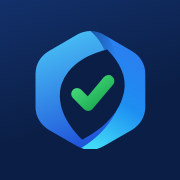
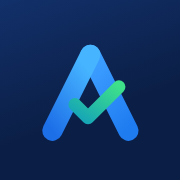
As-hal | أسهل: البوابة والأيقونات
- شاشة التحميل بلوجو حرف A، وعنوان التاب واسم التطبيق على الموبايل
- favicon و apple-touch-icon و logo.png الجديدة، ورقم النسخة ?v=ashal عشان المتصفح يجيبها

Claude-Session: https://claude.ai/code/session_017SmJQ2hLpvfXwQFP45DQRd

Changed region(s): [[0.1944, 0.1667, 0.8333, 0.8333]]

diff --git a/beta/index.html b/beta/index.html
@@ -7,17 +7,17 @@
 <meta name="mobile-web-app-capable" content="yes">
 <meta name="apple-mobile-web-app-capable" content="yes">
 <meta name="apple-mobile-web-app-status-bar-style" content="black">
-<meta name="apple-mobile-web-app-title" content="OPSORA">
+<meta name="apple-mobile-web-app-title" content="As-hal | أسهل">
 <meta name="robots" content="noindex">
 <meta name="referrer" content="no-referrer">
-<title>OPSORA — نسخة تجريبية</title>
+<title>As-hal — نسخة تجريبية</title>
 
-<link rel="icon" href="../favicon.ico?v=opsora" sizes="any">
-<link rel="icon" type="image/png" sizes="32x32" href="../favicon-32.png?v=opsora">
-<link rel="icon" type="image/png" sizes="16x16" href="../favicon-16.png?v=opsora">
-<link rel="icon" type="image/png" sizes="192x192" href="../favicon-192.png?v=opsora">
-<link rel="icon" type="image/png" sizes="512x512" href="../favicon-512.png?v=opsora">
-<link rel="apple-touch-icon" href="../apple-touch-icon.png?v=opsora">
+<link rel="icon" href="../favicon.ico?v=ashal" sizes="any">
+<link rel="icon" type="image/png" sizes="32x32" href="../favicon-32.png?v=ashal">
+<link rel="icon" type="image/png" sizes="16x16" href="../favicon-16.png?v=ashal">
+<link rel="icon" type="image/png" sizes="192x192" href="../favicon-192.png?v=ashal">
+<link rel="icon" type="image/png" sizes="512x512" href="../favicon-512.png?v=ashal">
+<link rel="apple-touch-icon" href="../apple-touch-icon.png?v=ashal">
 <!-- النسخة التجريبية مالهاش manifest عشان ماتتثبتش مكان الأصلية -->
 
 <style>
@@ -83,9 +83,9 @@
 <body>
 
 <div id="splash">
-  <div class="bl" role="status" aria-label="OPSORA">
-    <div class="bl-m"><span class="bl-o"><svg width="96" height="96" viewBox="0 0 100 100" aria-hidden="true" style="display:block"><defs><linearGradient id="oa" x1="0.1" y1="0" x2="0.5" y2="1"><stop offset="0" stop-color="#4CC9F7"/><stop offset="1" stop-color="#1D4ED8"/></linearGradient><linearGradient id="ob" x1="0.7" y1="0" x2="0.3" y2="1"><stop offset="0" stop-color="#2F7BEF"/><stop offset="0.55" stop-color="#1D8EF2"/><stop offset="1" stop-color="#40DAF6"/></linearGradient><linearGradient id="os" x1="0" y1="0" x2="1" y2="0"><stop offset="0" stop-color="#0B1F46" stop-opacity=".45"/><stop offset="1" stop-color="#0B1F46" stop-opacity="0"/></linearGradient><linearGradient id="ok" x1="0" y1="0" x2="1" y2="1"><stop offset="0" stop-color="#4ADE80"/><stop offset="1" stop-color="#16A34A"/></linearGradient><mask id="om"><polygon points="50,22 74.2,36 74.2,64 50,78 25.8,64 25.8,36" fill="#fff" stroke="#fff" stroke-width="44" stroke-linejoin="round"/></mask></defs><g mask="url(#om)"><rect width="100" height="100" fill="url(#oa)"/><path d="M63 19 C 60 11 56 5 50 0 L 100 0 L 100 100 L 40 100 C 60 88 75 70 77 50 C 78 39 72 28 63 19 Z" fill="url(#ob)"/><path d="M63 19 C 60 11 56 5 50 0 L 60 0 C 66 6 70 13 72 22 Z" fill="url(#os)"/></g><g transform="translate(52 53) scale(1.1) translate(-52 -53)"><path d="M44 88 C 30 75 24 59 28 46 C 33 31 47 23 63 19 C 73 29 78 40 76 51 C 73 67 61 79 44 88 Z" fill="#0B1F46"/><path d="M40 53 L48.5 61.5 L64 43" fill="none" stroke="url(#ok)" stroke-width="9" stroke-linecap="round" stroke-linejoin="round"/></g></svg></span></div>
-    <div class="bl-w"><span style="opacity:1;font-weight:700">OPSORA</span></div>
+  <div class="bl" role="status" aria-label="As-hal | أسهل">
+    <div class="bl-m"><span class="bl-o"><svg width="96" height="96" viewBox="0 0 100 100" aria-hidden="true" style="display:block"><defs><linearGradient id="aa" x1="0" y1="1" x2="0.6" y2="0"><stop offset="0" stop-color="#1D6FE8"/><stop offset="1" stop-color="#46B4FF"/></linearGradient><linearGradient id="ab" x1="0.5" y1="0" x2="1" y2="1"><stop offset="0" stop-color="#3B9CFF"/><stop offset="1" stop-color="#1E7BF0"/></linearGradient><linearGradient id="ac" x1="0" y1="1" x2="1" y2="0"><stop offset="0" stop-color="#14A3B8"/><stop offset="1" stop-color="#3EE08A"/></linearGradient></defs><path d="M50 20 L82 84" fill="none" stroke="url(#ab)" stroke-width="17" stroke-linecap="round"/><path d="M18 84 L50 20" fill="none" stroke="url(#aa)" stroke-width="17" stroke-linecap="round"/><path d="M37 62 L48 73 L74 47" fill="none" stroke="url(#ac)" stroke-width="11" stroke-linecap="round" stroke-linejoin="round"/></svg></span></div>
+    <div class="bl-w"><span style="opacity:1;font-weight:700">As-hal</span></div>
     <div class="bl-l"><i></i></div>
   </div>
   <div class="sub" id="ssub"></div>
@@ -93,7 +93,7 @@
 </div>
 
 <iframe id="frame"
-        title="OPSORA"
+        title="As-hal | أسهل"
         allow="geolocation *; clipboard-write *; fullscreen *"
         allowfullscreen
         referrerpolicy="no-referrer"></iframe>
@@ -334,7 +334,7 @@ function bioMake(empId, name){
   if (BIO.busy) return; BIO.busy = true; bioHide();
   var enc = new TextEncoder();
   navigator.credentials.create({publicKey:{
-    challenge: rnd(32), rp:{name:'OPSORA'},
+    challenge: rnd(32), rp:{name:'As-hal'},
     user:{id: enc.encode(String(empId)).slice(0, 64), name: String(name || empId), displayName: String(name || empId)},
     pubKeyCredParams:[{type:'public-key', alg:-7}, {type:'public-key', alg:-257}],
     authenticatorSelection:{authenticatorAttachment:'platform', userVerification:'required', residentKey:'discouraged'},

diff --git a/index.html b/index.html
@@ -7,17 +7,17 @@
 <meta name="mobile-web-app-capable" content="yes">
 <meta name="apple-mobile-web-app-capable" content="yes">
 <meta name="apple-mobile-web-app-status-bar-style" content="black">
-<meta name="apple-mobile-web-app-title" content="OPSORA">
+<meta name="apple-mobile-web-app-title" content="As-hal | أسهل">
 <meta name="robots" content="noindex">
 <meta name="referrer" content="no-referrer">
-<title>OPSORA</title>
+<title>As-hal | أسهل</title>
 
-<link rel="icon" href="favicon.ico?v=opsora" sizes="any">
-<link rel="icon" type="image/png" sizes="32x32" href="favicon-32.png?v=opsora">
-<link rel="icon" type="image/png" sizes="16x16" href="favicon-16.png?v=opsora">
-<link rel="icon" type="image/png" sizes="192x192" href="favicon-192.png?v=opsora">
-<link rel="icon" type="image/png" sizes="512x512" href="favicon-512.png?v=opsora">
-<link rel="apple-touch-icon" href="apple-touch-icon.png?v=opsora">
+<link rel="icon" href="favicon.ico?v=ashal" sizes="any">
+<link rel="icon" type="image/png" sizes="32x32" href="favicon-32.png?v=ashal">
+<link rel="icon" type="image/png" sizes="16x16" href="favicon-16.png?v=ashal">
+<link rel="icon" type="image/png" sizes="192x192" href="favicon-192.png?v=ashal">
+<link rel="icon" type="image/png" sizes="512x512" href="favicon-512.png?v=ashal">
+<link rel="apple-touch-icon" href="apple-touch-icon.png?v=ashal">
 <link rel="manifest" href="manifest.json">
 
 <style>
@@ -83,9 +83,9 @@
 <body>
 
 <div id="splash">
-  <div class="bl" role="status" aria-label="OPSORA">
-    <div class="bl-m"><span class="bl-o"><svg width="96" height="96" viewBox="0 0 100 100" aria-hidden="true" style="display:block"><defs><linearGradient id="oa" x1="0.1" y1="0" x2="0.5" y2="1"><stop offset="0" stop-color="#4CC9F7"/><stop offset="1" stop-color="#1D4ED8"/></linearGradient><linearGradient id="ob" x1="0.7" y1="0" x2="0.3" y2="1"><stop offset="0" stop-color="#2F7BEF"/><stop offset="0.55" stop-color="#1D8EF2"/><stop offset="1" stop-color="#40DAF6"/></linearGradient><linearGradient id="os" x1="0" y1="0" x2="1" y2="0"><stop offset="0" stop-color="#0B1F46" stop-opacity=".45"/><stop offset="1" stop-color="#0B1F46" stop-opacity="0"/></linearGradient><linearGradient id="ok" x1="0" y1="0" x2="1" y2="1"><stop offset="0" stop-color="#4ADE80"/><stop offset="1" stop-color="#16A34A"/></linearGradient><mask id="om"><polygon points="50,22 74.2,36 74.2,64 50,78 25.8,64 25.8,36" fill="#fff" stroke="#fff" stroke-width="44" stroke-linejoin="round"/></mask></defs><g mask="url(#om)"><rect width="100" height="100" fill="url(#oa)"/><path d="M63 19 C 60 11 56 5 50 0 L 100 0 L 100 100 L 40 100 C 60 88 75 70 77 50 C 78 39 72 28 63 19 Z" fill="url(#ob)"/><path d="M63 19 C 60 11 56 5 50 0 L 60 0 C 66 6 70 13 72 22 Z" fill="url(#os)"/></g><g transform="translate(52 53) scale(1.1) translate(-52 -53)"><path d="M44 88 C 30 75 24 59 28 46 C 33 31 47 23 63 19 C 73 29 78 40 76 51 C 73 67 61 79 44 88 Z" fill="#0B1F46"/><path d="M40 53 L48.5 61.5 L64 43" fill="none" stroke="url(#ok)" stroke-width="9" stroke-linecap="round" stroke-linejoin="round"/></g></svg></span></div>
-    <div class="bl-w"><span style="opacity:1;font-weight:700">OPSORA</span></div>
+  <div class="bl" role="status" aria-label="As-hal | أسهل">
+    <div class="bl-m"><span class="bl-o"><svg width="96" height="96" viewBox="0 0 100 100" aria-hidden="true" style="display:block"><defs><linearGradient id="aa" x1="0" y1="1" x2="0.6" y2="0"><stop offset="0" stop-color="#1D6FE8"/><stop offset="1" stop-color="#46B4FF"/></linearGradient><linearGradient id="ab" x1="0.5" y1="0" x2="1" y2="1"><stop offset="0" stop-color="#3B9CFF"/><stop offset="1" stop-color="#1E7BF0"/></linearGradient><linearGradient id="ac" x1="0" y1="1" x2="1" y2="0"><stop offset="0" stop-color="#14A3B8"/><stop offset="1" stop-color="#3EE08A"/></linearGradient></defs><path d="M50 20 L82 84" fill="none" stroke="url(#ab)" stroke-width="17" stroke-linecap="round"/><path d="M18 84 L50 20" fill="none" stroke="url(#aa)" stroke-width="17" stroke-linecap="round"/><path d="M37 62 L48 73 L74 47" fill="none" stroke="url(#ac)" stroke-width="11" stroke-linecap="round" stroke-linejoin="round"/></svg></span></div>
+    <div class="bl-w"><span style="opacity:1;font-weight:700">As-hal</span></div>
     <div class="bl-l"><i></i></div>
   </div>
   <div class="sub" id="ssub"></div>
@@ -93,7 +93,7 @@
 </div>
 
 <iframe id="frame"
-        title="OPSORA"
+        title="As-hal | أسهل"
         allow="geolocation *; clipboard-write *; fullscreen *"
         allowfullscreen
         referrerpolicy="no-referrer"></iframe>
@@ -336,7 +336,7 @@ function bioMake(empId, name){
   if (BIO.busy) return; BIO.busy = true; bioHide();
   var enc = new TextEncoder();
   navigator.credentials.create({publicKey:{
-    challenge: rnd(32), rp:{name:'OPSORA'},
+    challenge: rnd(32), rp:{name:'As-hal'},
     user:{id: enc.encode(String(empId)).slice(0, 64), name: String(name || empId), displayName: String(name || empId)},
     pubKeyCredParams:[{type:'public-key', alg:-7}, {type:'public-key', alg:-257}],
     authenticatorSelection:{authenticatorAttachment:'platform', userVerification:'required', residentKey:'discouraged'},

diff --git a/push-sw.js b/push-sw.js
@@ -8,11 +8,11 @@ self.addEventListener('push', function(e){
   var d = {};
   try { d = e.data ? e.data.json() : {}; } catch (x) { try { d = {data:{body:e.data.text()}}; } catch (y) {} }
   var m = d.data || d.notification || d || {};
-  var title = String(m.title || 'OPSORA');
+  var title = String(m.title || 'As-hal');
   var opt = {
     body: String(m.body || ''),
-    icon: 'favicon-192.png?v=opsora',
-    badge: 'favicon-192.png?v=opsora',
+    icon: 'favicon-192.png?v=ashal',
+    badge: 'favicon-192.png?v=ashal',
     dir: m.dir === 'ltr' ? 'ltr' : 'rtl',
     lang: m.lang === 'en' ? 'en' : 'ar',
     vibrate: [80, 40, 80],

diff --git a/app.html b/app.html
@@ -1,7 +1,7 @@
 <!DOCTYPE html>
 <html dir="rtl" lang="ar"><head><meta charset="UTF-8">
 <meta name="viewport" content="width=device-width,initial-scale=1,maximum-scale=1,viewport-fit=cover">
-<meta name="robots" content="noindex"><title>OPSORA</title>
+<meta name="robots" content="noindex"><title>As-hal | أسهل</title>
 <style>html,body{margin:0;background:#f4f6fa;font-family:Tahoma,Arial,sans-serif}#err{display:none;padding:24px;color:#b42318;text-align:center;line-height:1.8}</style>
 </head><body><div id="err"></div>
 <script>

diff --git a/beta/app.html b/beta/app.html
@@ -1,7 +1,7 @@
 <!DOCTYPE html>
 <html dir="rtl" lang="ar"><head><meta charset="UTF-8">
 <meta name="viewport" content="width=device-width,initial-scale=1,maximum-scale=1,viewport-fit=cover">
-<meta name="robots" content="noindex"><title>OPSORA</title>
+<meta name="robots" content="noindex"><title>As-hal | أسهل</title>
 <style>html,body{margin:0;background:#f4f6fa;font-family:Tahoma,Arial,sans-serif}#err{display:none;padding:24px;color:#b42318;text-align:center;line-height:1.8}</style>
 </head><body><div id="err"></div>
 <script>
